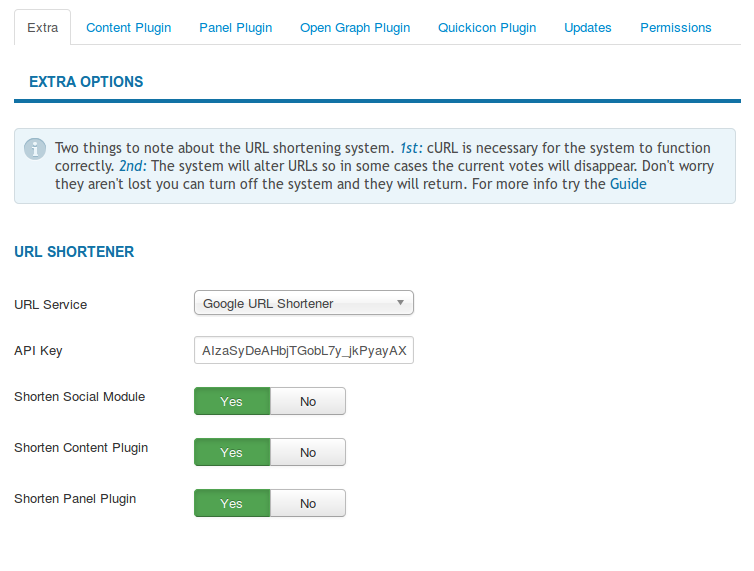
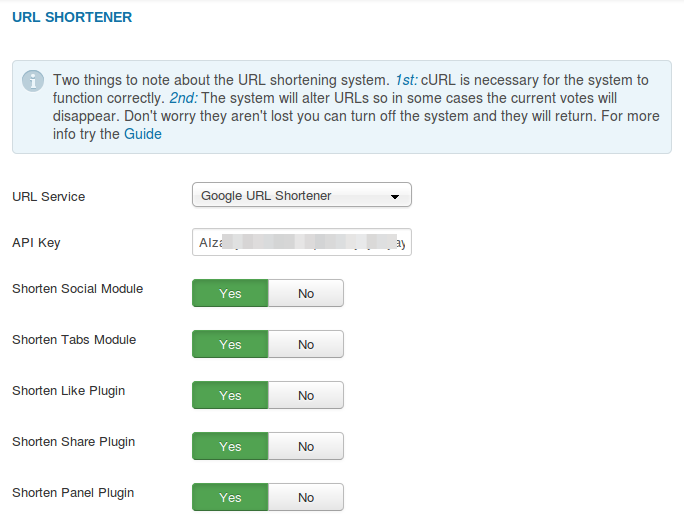
Updating guide ready for 0.1.9 release

diff --git a/docs/joomla/extensions/social/guide.md b/docs/joomla/extensions/social/guide.md
@@ -3,13 +3,14 @@
     -   [Control Panel](#control-panel)
     -   [Inbuilt Help](#help)
     -   [Extension Options](#options)
-        - [1. General Options \[Pro Version\]](#options-general)
-        - [2. Content Plugin Options \[Pro Version\]](#options-content)
-        - [3. Panel Plugin Options \[Pro Version\]](#options-panel)
-        - [4. Social Metadata Plugin Options \[Pro Version\]](#options-og)
-        - [5. Update Options](#options-updates)
-        - [6. Where Is My Download ID \[Pro Version\]](#options-downloadid)
-        - [7. Component Permissions](#options-permissions)
+        - [1. General Options](#options-general)
+        - [2. Like Plugin Options \[Pro Version\]](#options-content)
+        - [3. Share Plugin Options \[Pro Version\]](#options-share)
+        - [4. Panel Plugin Options \[Pro Version\]](#options-panel)
+        - [5. Social Metadata Plugin Options \[Pro Version\]](#options-og)
+        - [6. Update Options](#options-updates)
+        - [7. Where Is My Download ID \[Pro Version\]](#options-downloadid)
+        - [8. Component Permissions](#options-permissions)
 
 2.  [Social Module Guide](#module)
     -   [General Display Options](#mod-general)
@@ -79,7 +80,23 @@ out leaving the control panel. *\[Figure-2\]*
 
 <span class="info" markdown="1">In the control panel or the tool menu you have an options icon that when clicked will open a new window containing the various extension options.</span>
 
-### 1. <a name="options-general"></a>General Options \[Pro Version\]
+### 1. <a name="options-general"></a>General Options
+
+#### Facebook
+
+The first option in this section allows you to load the Facebook JavaScript library through a specifically designed plugin that will ensure it's only loaded once and can be used by all the parts of the Social Links system. *\[Figure-26\]*
+
+![Figure-26](images/docs/joomla/extensions/social-links/cw-slinks-config-extra5.png "Figure-26"){.coalaweb-docs}
+
+The next option is the **Facebook Application ID** which will be used through out the Social Links system both by it's associated **Modules** and **Plugins**. This is a centralized location making it quick and easy to add the ID once and have the whole system use it. This can be overridden in some cases such as the Social Links module if needed.  *\[Figure-26a\]*
+
+![Figure-26a](images/docs/joomla/extensions/social-links/cw-slinks-config-extra6.png "Figure-26a"){.coalaweb-docs}
+
+#### Twitter
+
+If you want a Twitter username to be added to the end of Tweets generated by the Social Links system with the pre text **via** add it here in the following format @username otherwise leave this option blank. *\[Figure-26b\]*
+
+![Figure-26b](images/docs/joomla/extensions/social-links/cw-slinks-config-extra7.png "Figure-26b"){.coalaweb-docs}
 
 #### URL Shortener
 
@@ -124,42 +141,68 @@ Next select **Credentials** from the left menu and your API Key should be listed
 
 ![Figure-24c](images/docs/joomla/extensions/social-links/cw-slinks-config-extra4.png "Figure-24c"){.coalaweb-docs}
 
-### 2. <a name="options-content"></a>Content Plugin Options \[Pro Version\]
+### 2. <a name="options-content"></a>Like Plugin Options \[Pro Version\]
 
 <span class="tip" markdown="1">Some of the options selected here will affect the display of the buttons in Joomla, K2 and Zoo.</span>
 
-<span class="info" markdown="1">To make it easier to follow I have broken up the **Content Plugin Options** into three parts.</span>
+<span class="info" markdown="1">To make it easier to follow I have broken up the **Like Plugin Options** into three parts.</span>
 
 #### Part 1 - Display Where
 
-The first option is to turn on or off the display of the content social buttons. This option does in essence the same thing as unpublishing the associated plugin with out the hassle of searching through the plugins.
+The first option is to turn on or off the display of the like social buttons. This option does in essence the same thing as unpublishing the associated plugin with out the hassle of searching through the plugins.
 
-The next option allows you to choose if you want the social buttons to
-be displayed everywhere for example in all items displayed in a blog
-layout or only when you have selected a particular article. This will
-affect the display of the buttons in both Joomla and K2.
+The next option allows you to choose if you want the social buttons to be displayed everywhere for example in each of the articles displayed in a blog layout or only when you have selected a particular article. This will affect the display of the buttons in both Joomla and K2. *\[Figure-3\]*
 
-The next two options give you an opportunity to select which categories
-you wish the buttons to be displayed in for both Joomla and K2. If you
-wish to select more than one just hold down **Shift** on your keyboard
-and select the categories with your mouse. *\[Figure-3\]*
+![Figure-3](images/docs/joomla/extensions/social-links/cw-slinks-config-like1.png "Figure-3"){.coalaweb-docs}
 
-![Figure-3](images/docs/joomla/extensions/social-links/cw-slinks-config-content1.png "Figure-3"){.coalaweb-docs}
+Next you have an opportunity to select which categories you wish the buttons to be displayed in. If you wish to select more than one just hold down **Shift** on your keyboard and select the categories with your mouse. If you want to exclude any articles use the last input field by entering their IDs one per line. *\[Figure-3a\]*
+
+![Figure-3a](images/docs/joomla/extensions/social-links/cw-slinks-config-like2.png "Figure-3a"){.coalaweb-docs}
 
 #### Part 2 - Layout
 
-Next are the **Layout Options** here you can choose to display the buttons above the content, below the content or both. The buttons also have style options associated with them, you can display them in **Vertical** \[Bubble\], **Horizontal** or with **No Count**. The only exception is the **Mail Count** button that can only be displayed in **Vertical**. . *\[Figure-3a\]*
+Next are the **Layout Options** here you can choose to display the buttons above the content, below the content or both. The buttons also have style options associated with them, you can display them in **Vertical** \[Bubble\], **Horizontal** or with **No Count**. The only exception is the **Mail Count** button that can only be displayed in **Vertical**. *\[Figure-3b\]*
 
-![Figure-3a](images/docs/joomla/extensions/social-links/cw-slinks-config-content2.png "Figure-3a"){.coalaweb-docs}
+![Figure-3b](images/docs/joomla/extensions/social-links/cw-slinks-config-like3.png "Figure-3b"){.coalaweb-docs}
 
 #### Part 3 - Social
 Next are the **Social Options** here you can chose which social networks
-you wish to display. These options will affect the display of both the
-buttons in Joomla and K2. *\[Figure-3b\]*
+you wish to display. These options will affect the display of the
+buttons in Joomla, K2 and Zoo. *\[Figure-3c\]*
 
-![Figure-3b](images/docs/joomla/extensions/social-links/cw-slinks-config-content3.png "Figure-3b"){.coalaweb-docs}
+![Figure-3c](images/docs/joomla/extensions/social-links/cw-slinks-config-like4.png "Figure-3c"){.coalaweb-docs}
 
-### 3. <a name="options-panel"></a>Panel Plugin Options \[Pro Version\]
+### 3. <a name="options-share"></a>Share Plugin Options \[Pro Version\]
+
+<span class="tip" markdown="1">Some of the options selected here will affect the display of the buttons in Joomla, K2 and Zoo.</span>
+
+<span class="info" markdown="1">To make it easier to follow I have broken up the **Share Plugin Options** into three parts.</span>
+
+#### Part 1 - Display Where
+
+The first option is to turn on or off the display of the share social buttons. This option does in essence the same thing as unpublishing the associated plugin with out the hassle of searching through the plugins.
+
+The next option allows you to choose if you want the social buttons to be displayed everywhere for example in each of the articles displayed in a blog layout or only when you have selected a particular article. This will affect the display of the buttons in both Joomla and K2. *\[Figure-27\]*
+
+![Figure-27](images/docs/joomla/extensions/social-links/cw-slinks-config-share1.png "Figure-27"){.coalaweb-docs}
+
+Next you have an opportunity to select which categories you wish the buttons to be displayed in. If you wish to select more than one just hold down **Shift** on your keyboard and select the categories with your mouse. If you want to exclude any articles use the last input field by entering their IDs one per line. *\[Figure-27a\]*
+
+![Figure-27a](images/docs/joomla/extensions/social-links/cw-slinks-config-share2.png "Figure-27a"){.coalaweb-docs}
+
+#### Part 2 - General
+
+Next are the **General Options** here you can choose to display the buttons above the content, below the content or both. The next two options control what icons are displayed and their size. The icon themes are the same ones used by the Social Links module making it easy to create a custom theme that can be used by both. For more details on creating a custom theme click [Here](#mod-custom-theme). If you want the links to be set to No Follow select **Yes** for the next option. Lastly if you want them to be opened in a popup window select **Yes** for the **Use Popup** option. *\[Figure-27b\]*
+
+![Figure-27b](images/docs/joomla/extensions/social-links/cw-slinks-config-share3.png "Figure-27b"){.coalaweb-docs}
+
+#### Part 3 - Social
+Next are the **Social Options** here you can chose which social networks you wish to display. These options will affect the display of both the
+buttons in Joomla and K2. *\[Figure-27c\]*
+
+![Figure-27c](images/docs/joomla/extensions/social-links/cw-slinks-config-share4.png "Figure-27c"){.coalaweb-docs}
+
+### 4. <a name="options-panel"></a>Panel Plugin Options \[Pro Version\]
 
 ![Figure-23](images/docs/joomla/extensions/social-links/cw-slinks-config-panel1.png "Figure-23"){.coalaweb-docs}
 
@@ -167,7 +210,7 @@ buttons in Joomla and K2. *\[Figure-3b\]*
 
 #### Part 1 - Display Where
 
-To make it easy to turn on or off the Social Panel plugin completely I have included a Load Panel option this will save you having to open up the plugin manager to disable it. The next two options give you an opportunity to select which categories you wish the panel to be displayed in for both Joomla and K2. If you wish to select more than one just hold down **Shift** on your keyboard and select the categories with your mouse. *\[Figure-23a\]*
+To make it easy to turn on or off the Social Panel plugin completely I have included a **Load Panel** option this will save you having to open up the plugin manager to disable it. Next you have an opportunity to select which categories you wish the buttons to be displayed in. If you wish to select more than one just hold down **Shift** on your keyboard and select the categories with your mouse. If you want to exclude any articles use the last input field by entering their IDs one per line. *\[Figure-23a\]*
 
 ![Figure-23a](images/docs/joomla/extensions/social-links/cw-slinks-config-panel2.png "Figure-23a"){.coalaweb-docs}
 
@@ -243,7 +286,7 @@ buttons in Joomla and K2. *\[Figure-23e\]*
 
 ![Figure-23e](images/docs/joomla/extensions/social-links/cw-slinks-config-panel6.png "Figure-23e"){.coalaweb-docs}
 
-### 4. <a name="options-og"></a>Metadata Plugin Options \[Pro Version\]
+### 5. <a name="options-og"></a>Metadata Plugin Options \[Pro Version\]
 
 The **CoalaWeb Metadata** plugin will help generate meta data in the
 **Open Graph** and **Twitter Card** formats and then place it in the head of your web pages. This
@@ -373,7 +416,7 @@ Here you can enter the Twitter **@username** for the content author. *\[Figure-4
 
 ![Figure-4c](images/docs/joomla/extensions/social-links/cw-slinks-config-metadata4.png "Figure-4c"){.coalaweb-docs}
 
-### 5. <a name="options-updates"></a>Update Options
+### 6. <a name="options-updates"></a>Update Options
 
 The CoalaWeb Social Links extension integrates with the inbuilt
 **Joomla Update** system so both **Core** and **Pro** users can keep their
@@ -385,7 +428,7 @@ make sure you still have a valid subscription and the **ID** is correct. *\[Figu
 
 ![Figure-6](images/docs/joomla/extensions/social-links/cw-slinks-config-updates.png "Figure-6"){.coalaweb-docs}
 
-### 6. <a name="options-downloadid"></a>Where Is My Download ID \[Pro Version\]
+### 7. <a name="options-downloadid"></a>Where Is My Download ID \[Pro Version\]
 
 To find your **Download ID** log into **coalaweb.com** and from the top
 menu select **Members \> My Subscriptions** scroll down and under **My
@@ -395,7 +438,7 @@ to include any spaces. *\[Figure-7\]*
 
 ![Figure-7](images/docs/joomla/extensions/social-links/coalaweb-download-id.png "Figure-7"){.coalaweb-docs}
 
-### 7. <a name="options-permissions"></a>Component Permissions
+### 8. <a name="options-permissions"></a>Component Permissions
 
 The last tab contains the permission settings for the CoalaWeb Social
 Links component. *\[Figure-8\]*
@@ -479,7 +522,7 @@ Facebook has announced that they have deprecated the **Sharer** code in preferen
 
 ### <a name="mod-bookmark-fbapp"></a>Create Facebook Application
 
-To get a **Facebook App ID** requires you to first create a Facebook Application but don’t worry it’s an easy process which we will walk your through in this [GUIDE](http://coalaweb.com/support-menu/documentation/item/create-facebook-application "Facebook App Guide").
+To get a **Facebook App ID** requires you to first create a Facebook Application but don’t worry it’s an easy process which we will walk your through in this [GUIDE](http://coalaweb.com/support/documentation/item/create-facebook-application "Facebook App Guide").
 
 #### Part 2 - Social A - Z
 
@@ -612,7 +655,7 @@ Facebook has announced that they have deprecated the **Sharer** code in preferen
 
 ### <a name="mod-tabs-fbapp"></a>Create Facebook Application
 
-To get a **Facebook App ID** requires you to first create a Facebook Application but don’t worry it’s an easy process which we will walk your through in this [GUIDE](http://coalaweb.com/support-menu/documentation/item/create-facebook-application "Facebook App Guide").
+To get a **Facebook App ID** requires you to first create a Facebook Application but don’t worry it’s an easy process which we will walk your through in this [GUIDE](http://coalaweb.com/support/documentation/item/create-facebook-application "Facebook App Guide").
 
 #### Part 2 - Social A - Z
 
@@ -1057,6 +1100,6 @@ Now if you check the source code of one of your **Zoo Content Items** you should
 
 ## <a name="more-help"></a>Need More Help
 
-<span class="tip" markdown="1">Do you have a question that wasn't covered by the GUIDE? Try the [FAQ](http://coalaweb.com/support-menu/documentation/item/coalaweb-social-links-faq).</span>
+<span class="tip" markdown="1">Do you have a question that wasn't covered by the GUIDE? Try the [FAQ](http://coalaweb.com/support/documentation/category/joomla).</span>
 
 <span class="tip" markdown="1">Do you have a question that wasn't covered by the GUIDE or the FAQ? Then it's time to drop by the [Forum](http://coalaweb.com/forum/index) I'm sure we can help.</span>

diff --git a/docs/joomla/extensions/contact/guide.md b/docs/joomla/extensions/contact/guide.md
@@ -362,5 +362,5 @@ displayed at the bottom of the editor.
 
 ### <a name="more-help"></a>Need more help?
 
-<span class="tip" markdown="1">Do you have a question that wasn't covered by the GUIDE? Try the [FAQ](/support-menu/documentation/item/coalaweb-social-links-faq).</span>
-<span class="tip" markdown="1">Do you have a question that wasn't covered by the GUIDE or the FAQ? Then it's time to drop by the [Forum](forum/coalaweb-social-links) I'm sure we can help.<span>
+<span class="tip" markdown="1">Do you have a question that wasn't covered by the GUIDE? Try the [FAQ](/support/documentation/category/joomla).</span>
+<span class="tip" markdown="1">Do you have a question that wasn't covered by the GUIDE or the FAQ? Then it's time to drop by the [Forum](/forum/index) I'm sure we can help.<span>

diff --git a/docs/joomla/extensions/social/fb-app-guide.md b/docs/joomla/extensions/social/fb-app-guide.md
@@ -113,6 +113,6 @@ Now when you are returned to the **Dashboard** you will see a solid green circle
 
 ## <a name="more-help"></a>Need More Help
 
-<span class="tip" markdown="1">Do you have a question that wasn't covered by the GUIDE? Try the [FAQ](http://coalaweb.com/support-menu/documentation/item/coalaweb-social-links-faq).</span>
+<span class="tip" markdown="1">Do you have a question that wasn't covered by the GUIDE? Try the [FAQ](http://coalaweb.com/support/documentation/category/joomla).</span>
 
 <span class="tip" markdown="1">Do you have a question that wasn't covered by the GUIDE or the FAQ? Then it's time to drop by the [Forum](http://coalaweb.com/forum/index) I'm sure we can help.</span>

diff --git a/docs/joomla/extensions/traffic/guide.md b/docs/joomla/extensions/traffic/guide.md
@@ -546,6 +546,6 @@ be installed and published.</span>
 
 ## <a name="more-help"></a>Need More Help
 
-<span class="tip" markdown="1">Do you have a question that wasn't covered by the GUIDE? Try the [FAQ](http://coalaweb.com/support-menu/documentation/item/coalaweb-traffic-faq).</span>
+<span class="tip" markdown="1">Do you have a question that wasn't covered by the GUIDE? Try the [FAQ](http://coalaweb.com/support/documentation/category/joomla).</span>
 
 <span class="tip" markdown="1">Do you have a question that wasn't covered by the GUIDE or the FAQ? Then it's time to drop by the [Forum](http://coalaweb.com/forum/index) I'm sure we can help.</span>
